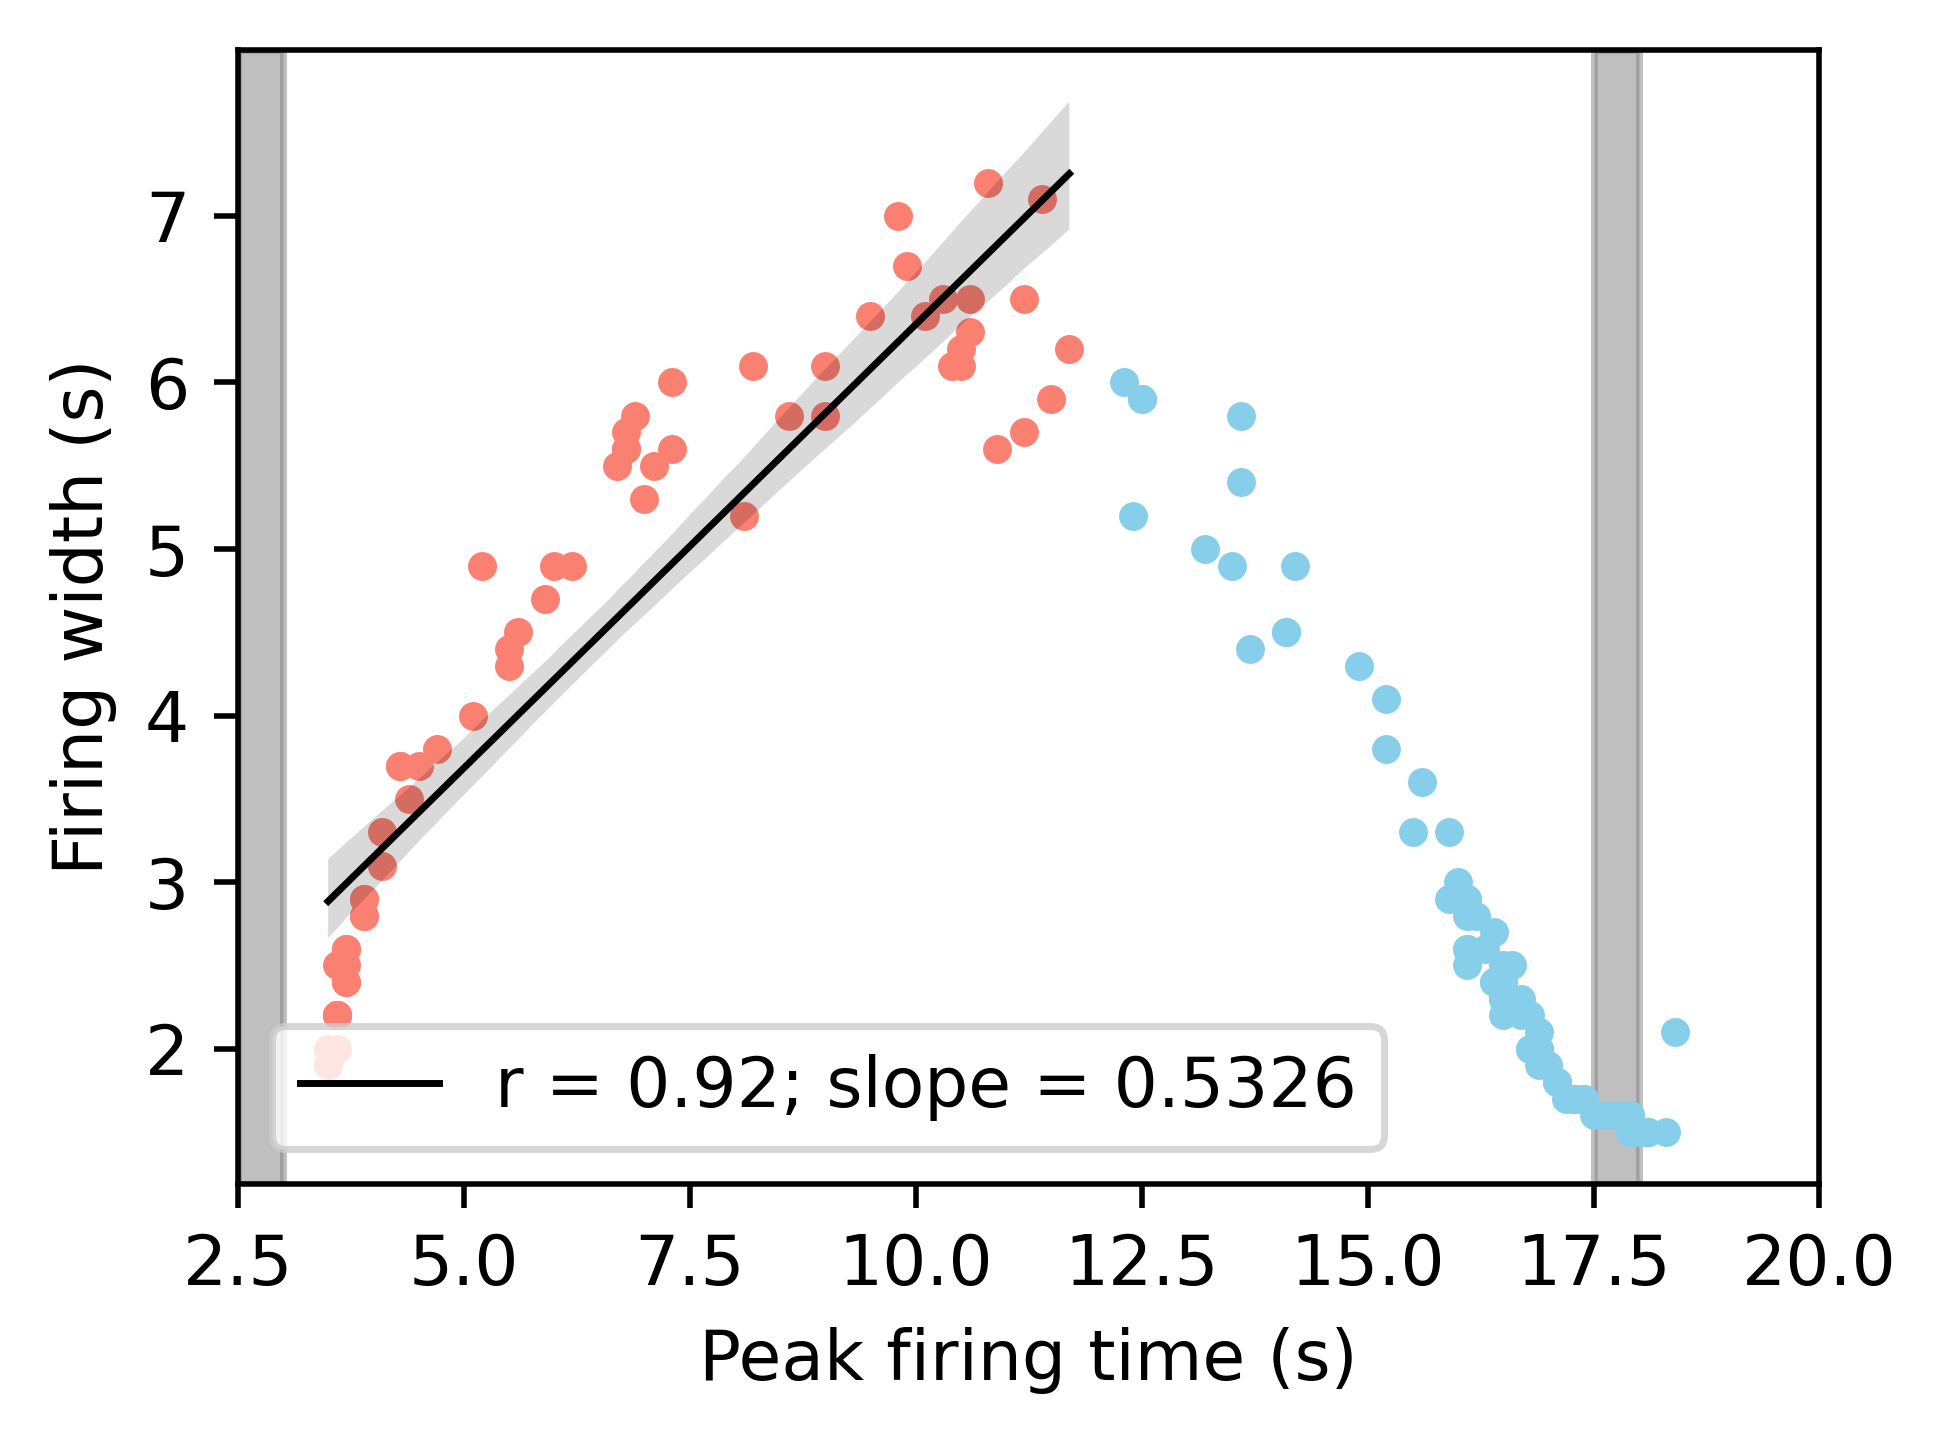
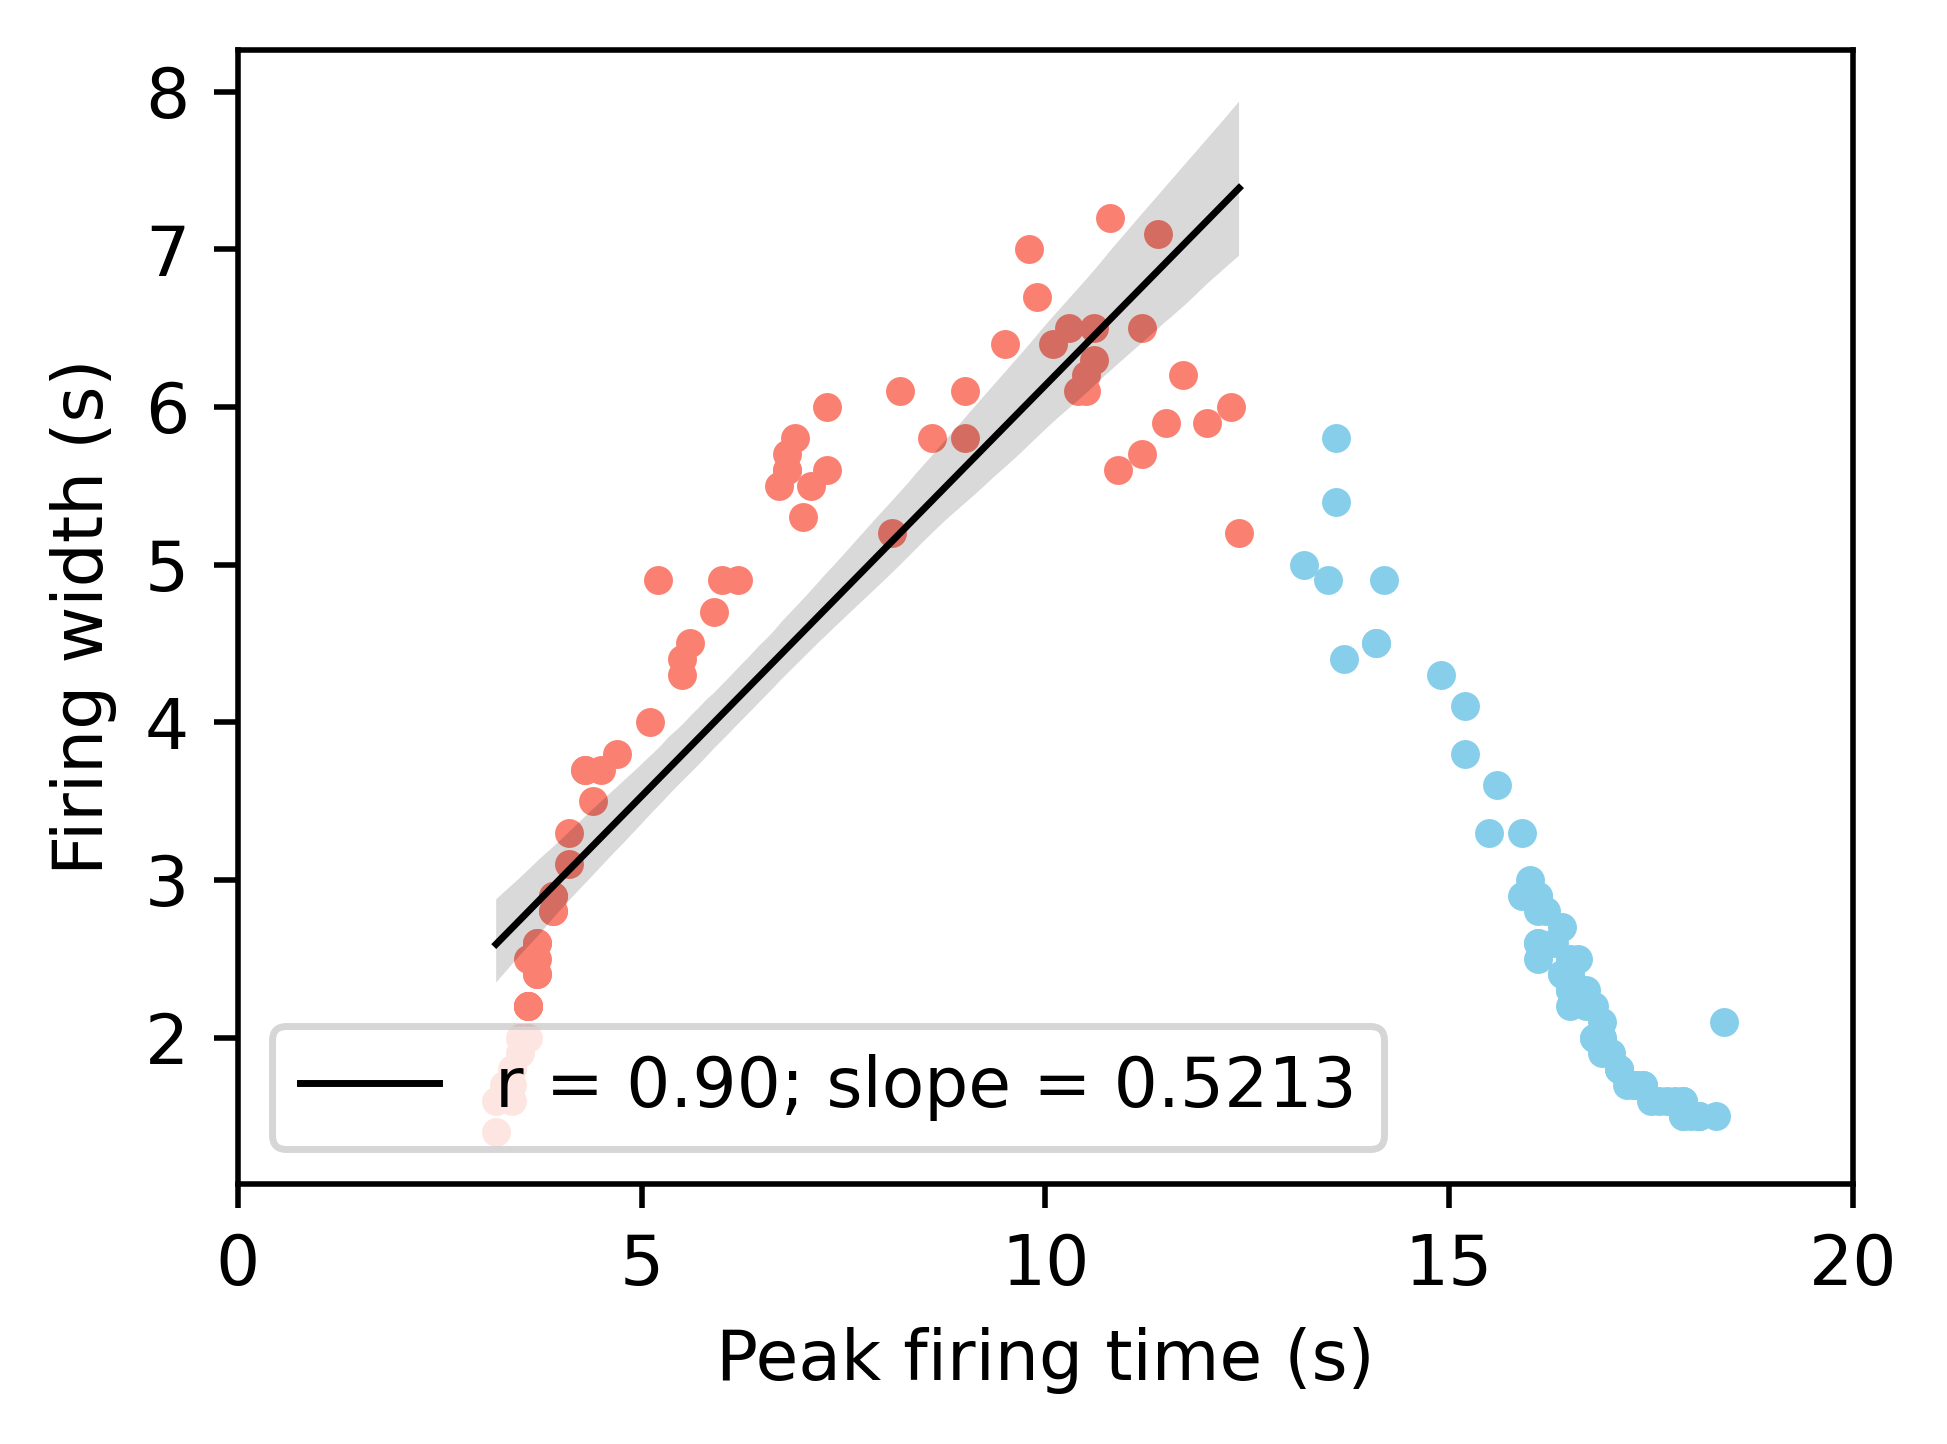
final

diff --git a/code/time_exp/fig.py b/code/time_exp/fig.py
@@ -6,7 +6,7 @@ sys.path.append(os.path.dirname(os.path.dirname(os.path.abspath(__file__))))
 from func import plt_hs, plt_corr, time_analysis
 
 # Only change these
-name = '_clean'
+name = ''
 time_start, time_end = 3.2, 12.5
 
 
@@ -31,11 +31,12 @@ print(avg_hs.shape)
 # Plot the sorted hidden states
 fig, ax = plt.subplots(figsize=(4, 3))
 norm_hs, fig, ax = plt_hs(avg_hs, min_fr=0.1, fig=fig, ax=ax)
-ax.axvspan(2.5, 3,   alpha=0.5, color='white', zorder=0)
-ax.axvspan(17.5, 18, alpha=0.5, color='white', zorder=0)
+
+# ax.axvspan(2.5, 3,   alpha=0.5, color='white', zorder=0)
+# ax.axvspan(17.5, 18, alpha=0.5, color='white', zorder=0)
 # ax.set_xlim(2, 20)
 ax.set_xlabel('Time (s)')
-plt.savefig(f'code/time_exp/time_exp_fr{name}.png', dpi=500, transparent=False, bbox_inches='tight')
+plt.savefig(f'code/time_exp/time_exp_fr{name}.png', dpi=500, transparent=True, bbox_inches='tight')
 
 
 
@@ -93,11 +94,11 @@ fig2, ax2 = plt_corr(max_time_pts[(time_start <= max_time_pts) & (max_time_pts <
             firing_widths[(time_start <= max_time_pts) & (max_time_pts < time_end)], fig=fig2, ax=ax2)
 ax2.legend()
 
-ax2.axvspan(2.5, 3,   alpha=0.5, color='grey', zorder=0)
-ax2.axvspan(17.5, 18, alpha=0.5, color='grey', zorder=0)
+# ax2.axvspan(2.5, 3,   alpha=0.5, color='grey', zorder=0)
+# ax2.axvspan(17.5, 18, alpha=0.5, color='grey', zorder=0)
+ax2.set_xlim(0, 20)
 
-# ax2.set_xlim(2.5, 20)
 ax2.set_xlabel('Peak firing time (s)')
 ax2.set_ylabel("Firing width (s)")
 fig2.tight_layout()
-fig2.savefig(f'code/time_exp/time_exp_temp_corr{name}.png', dpi=500, transparent=False, bbox_inches='tight')
+fig2.savefig(f'code/time_exp/time_exp_temp_corr{name}.png', dpi=500, transparent=True, bbox_inches='tight')
